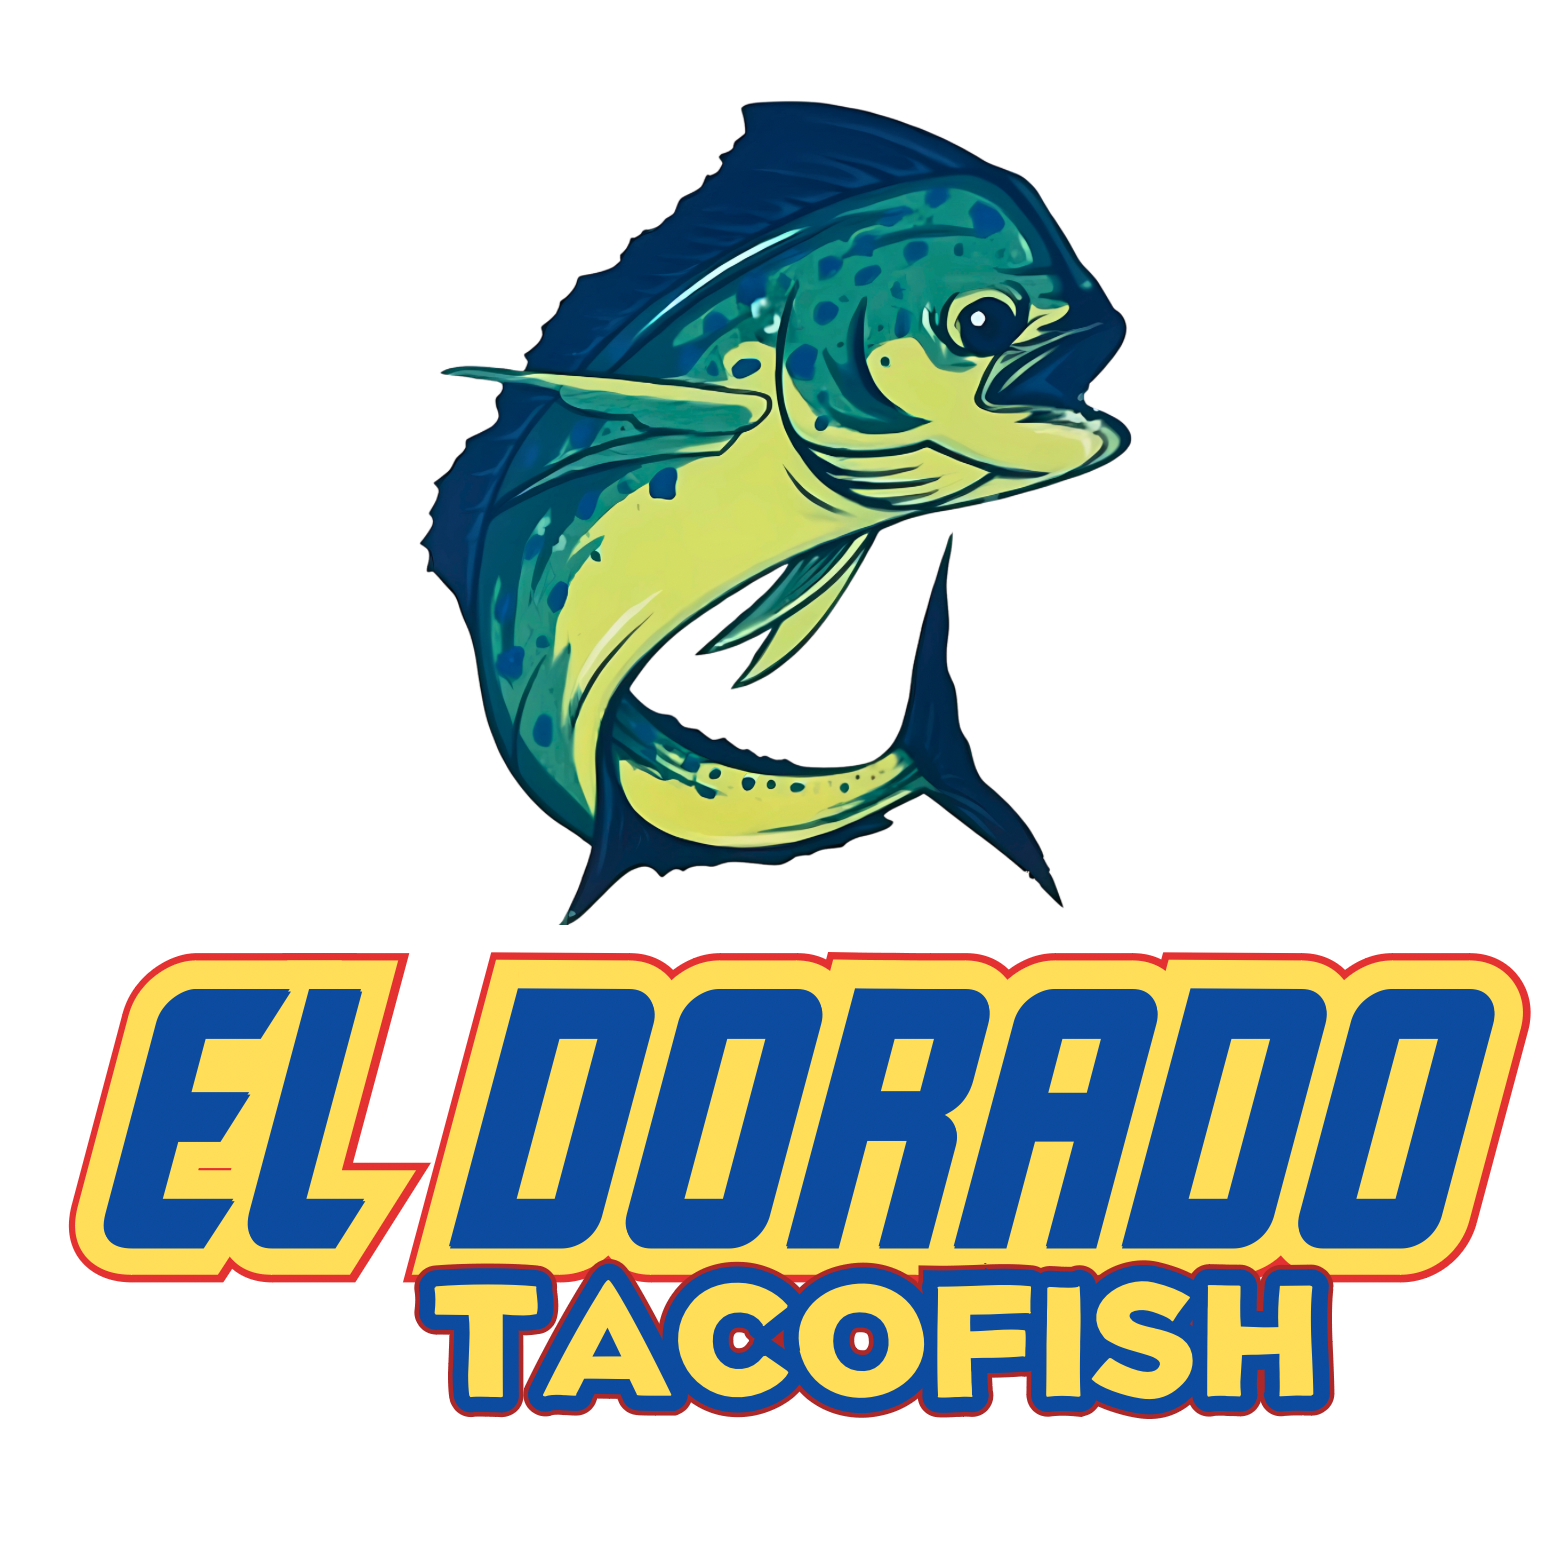
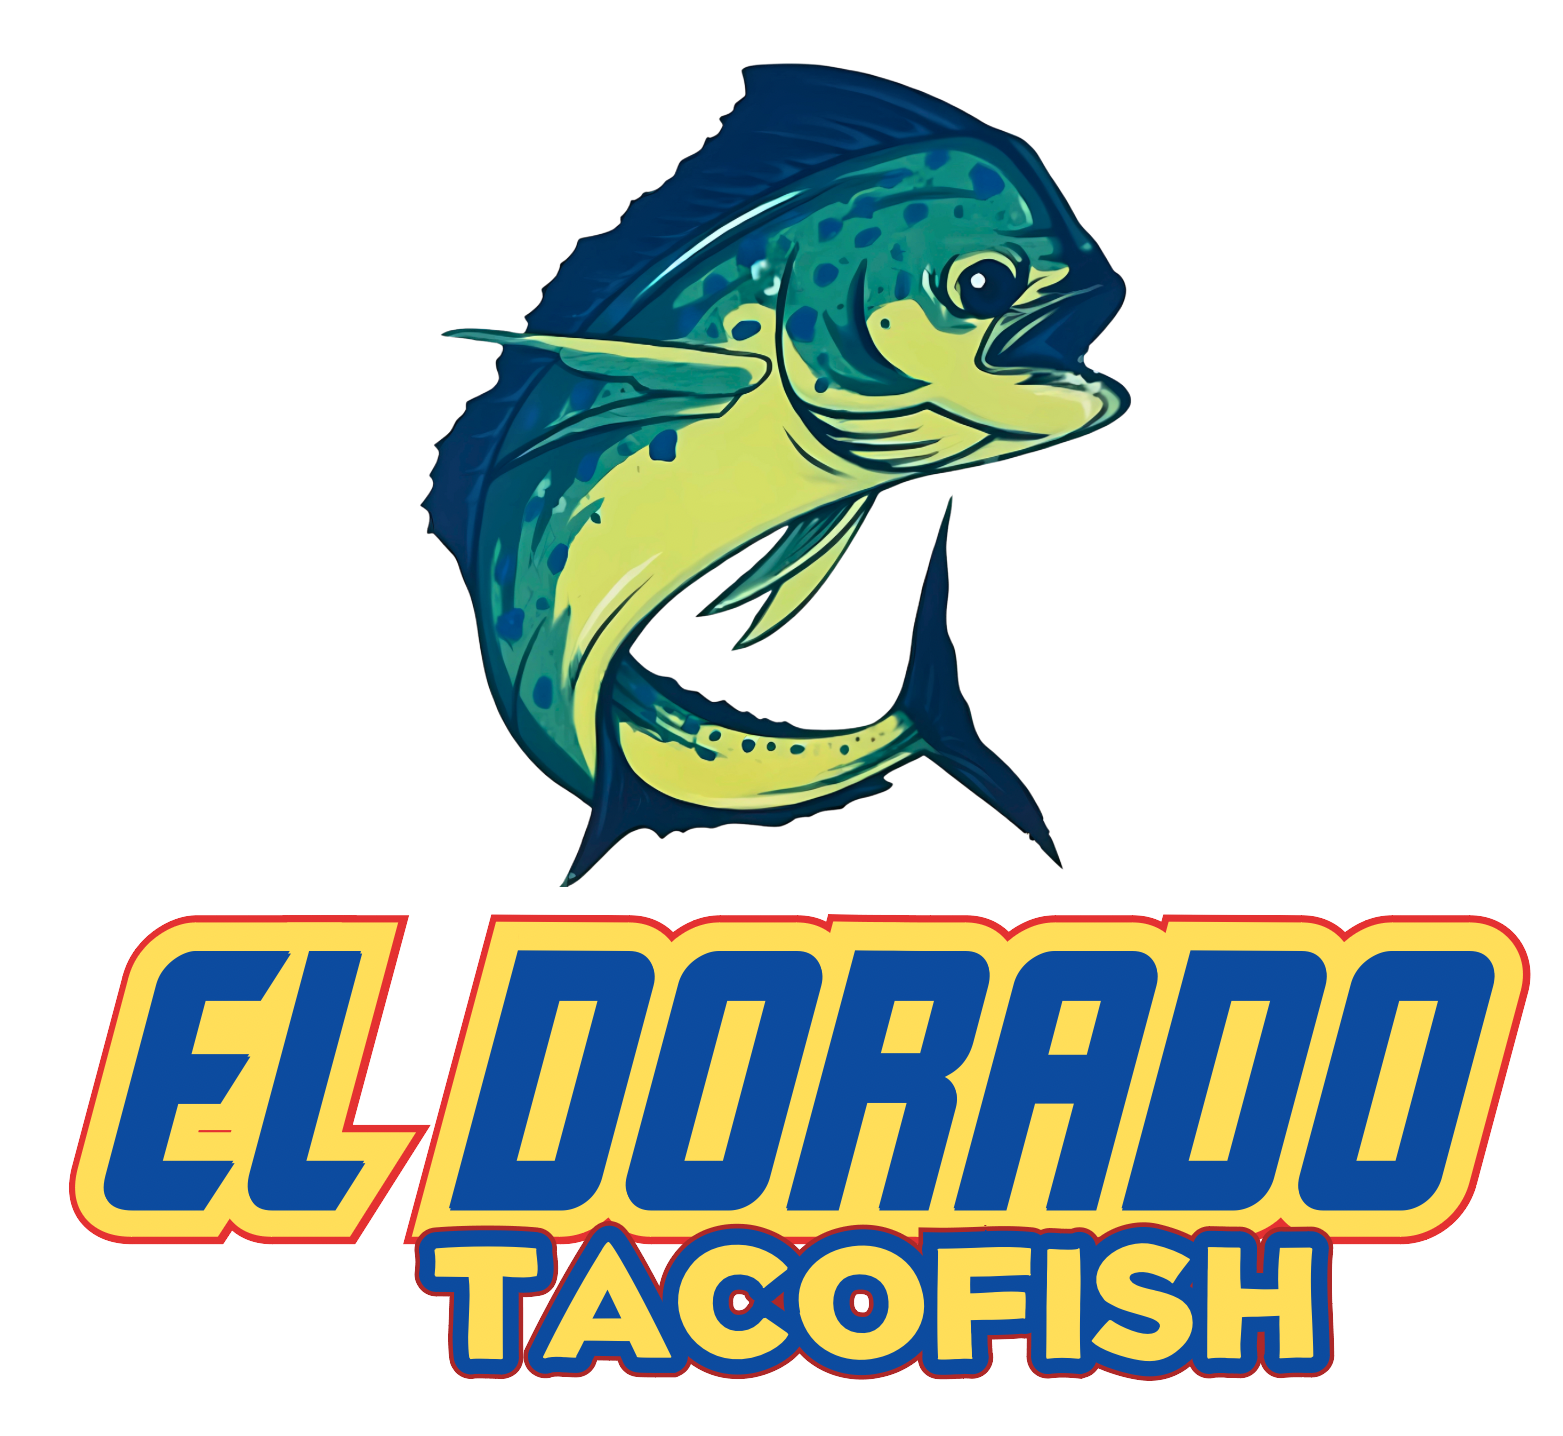
v0.0.0.0.0.0.2 se modificaron las alturas

Changed region(s): [[0.0307, 0.0306, 0.9827, 0.9805], [0.2457, 0.337, 0.2764, 0.3677]]

diff --git a/index.html b/index.html
@@ -58,10 +58,10 @@
         </div>
     </header>
 <!--    imagen de fondo-->
-    <div id="menu-opciones" class="imagen menu-opciones ">
+    <div class="imagen menu-opciones contenedor ">
 <!--    _menu        -->
         <div class="overlay">
-            <div class=" contenido-imagen">
+            <div class="contenido-imagen">
                 <div class="menu-nav">
                     <div class="menu-titulo-bar">
                         <h3 class="bar-titulo" >sabores del mar</h3>

diff --git a/build/css/app.css b/build/css/app.css
@@ -386,14 +386,13 @@ template {
 
 @media (min-width: 768px) {
   .header-imagen {
-    width: 15%;
-    height: 15%;
+    width: 50%;
+    height: 100%;
   }
 }
 @media (min-width: 1440px) {
   .header-imagen {
-    width: 10%;
-    height: 10%;
+    width: 30%;
   }
 }
 
@@ -454,6 +453,7 @@ template {
   display: flex;
   flex-direction: row;
   justify-content: space-between;
+  padding-left: 1rem;
 }
 .header-ubicacion .ubicacion {
   display: flex;

diff --git a/src/scss/layout/_header.scss b/src/scss/layout/_header.scss
@@ -12,12 +12,11 @@
 
   }
   @include m.tablet{
-    width: 15%;
-    height: 15%;
+    width: 50%;
+    height: 100%;
   }
   @include m.desktop{
-    width: 10%;
-    height: 10%;
+    width: 30%;
   }
 }
 .header-derecho{
@@ -76,6 +75,7 @@
   display: flex;
   flex-direction: row;
   justify-content: space-between;
+  padding-left: 1rem;
   .ubicacion{
     display: flex;
     flex-direction: row;
